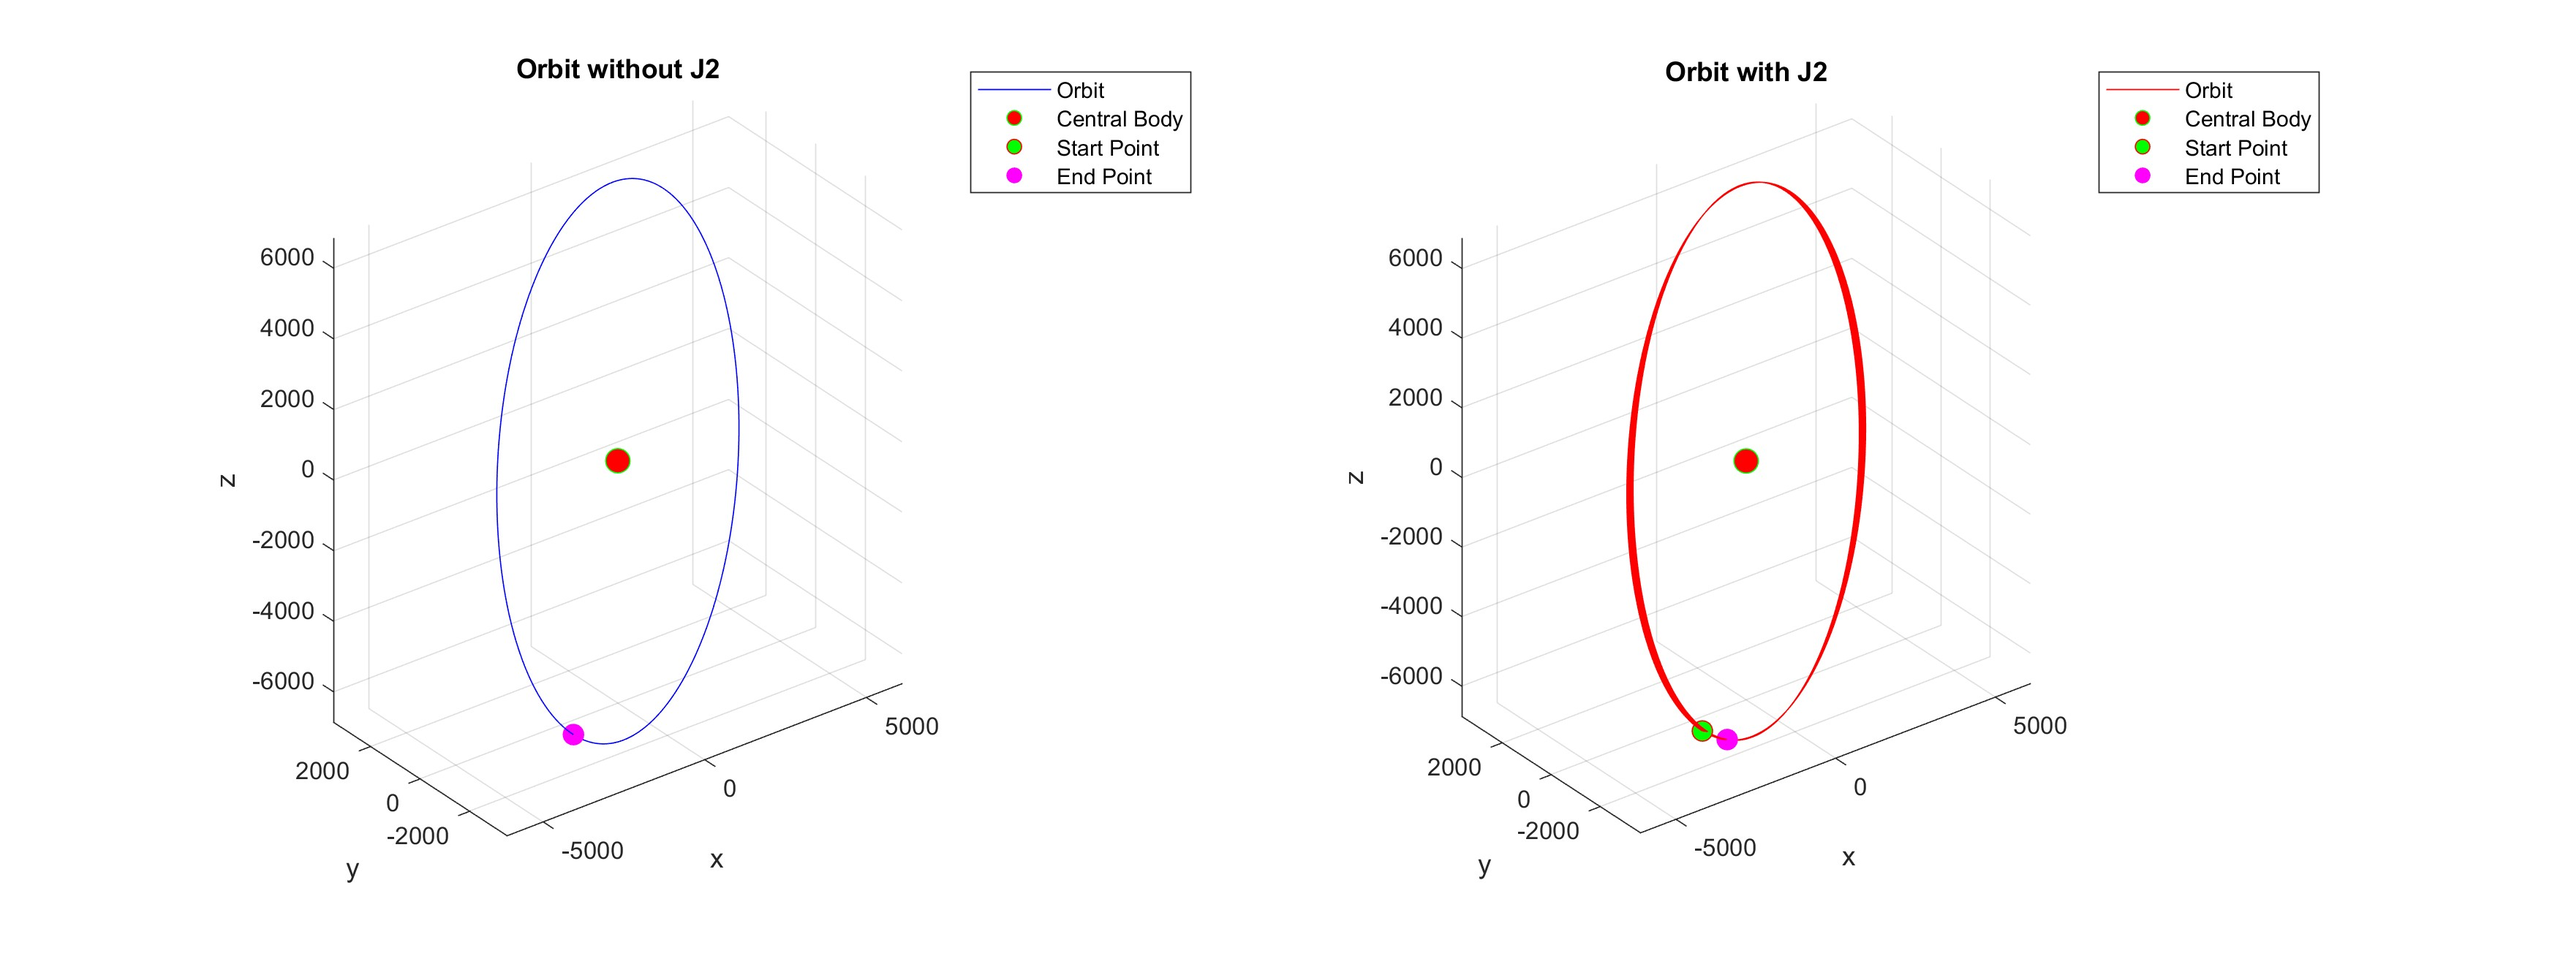
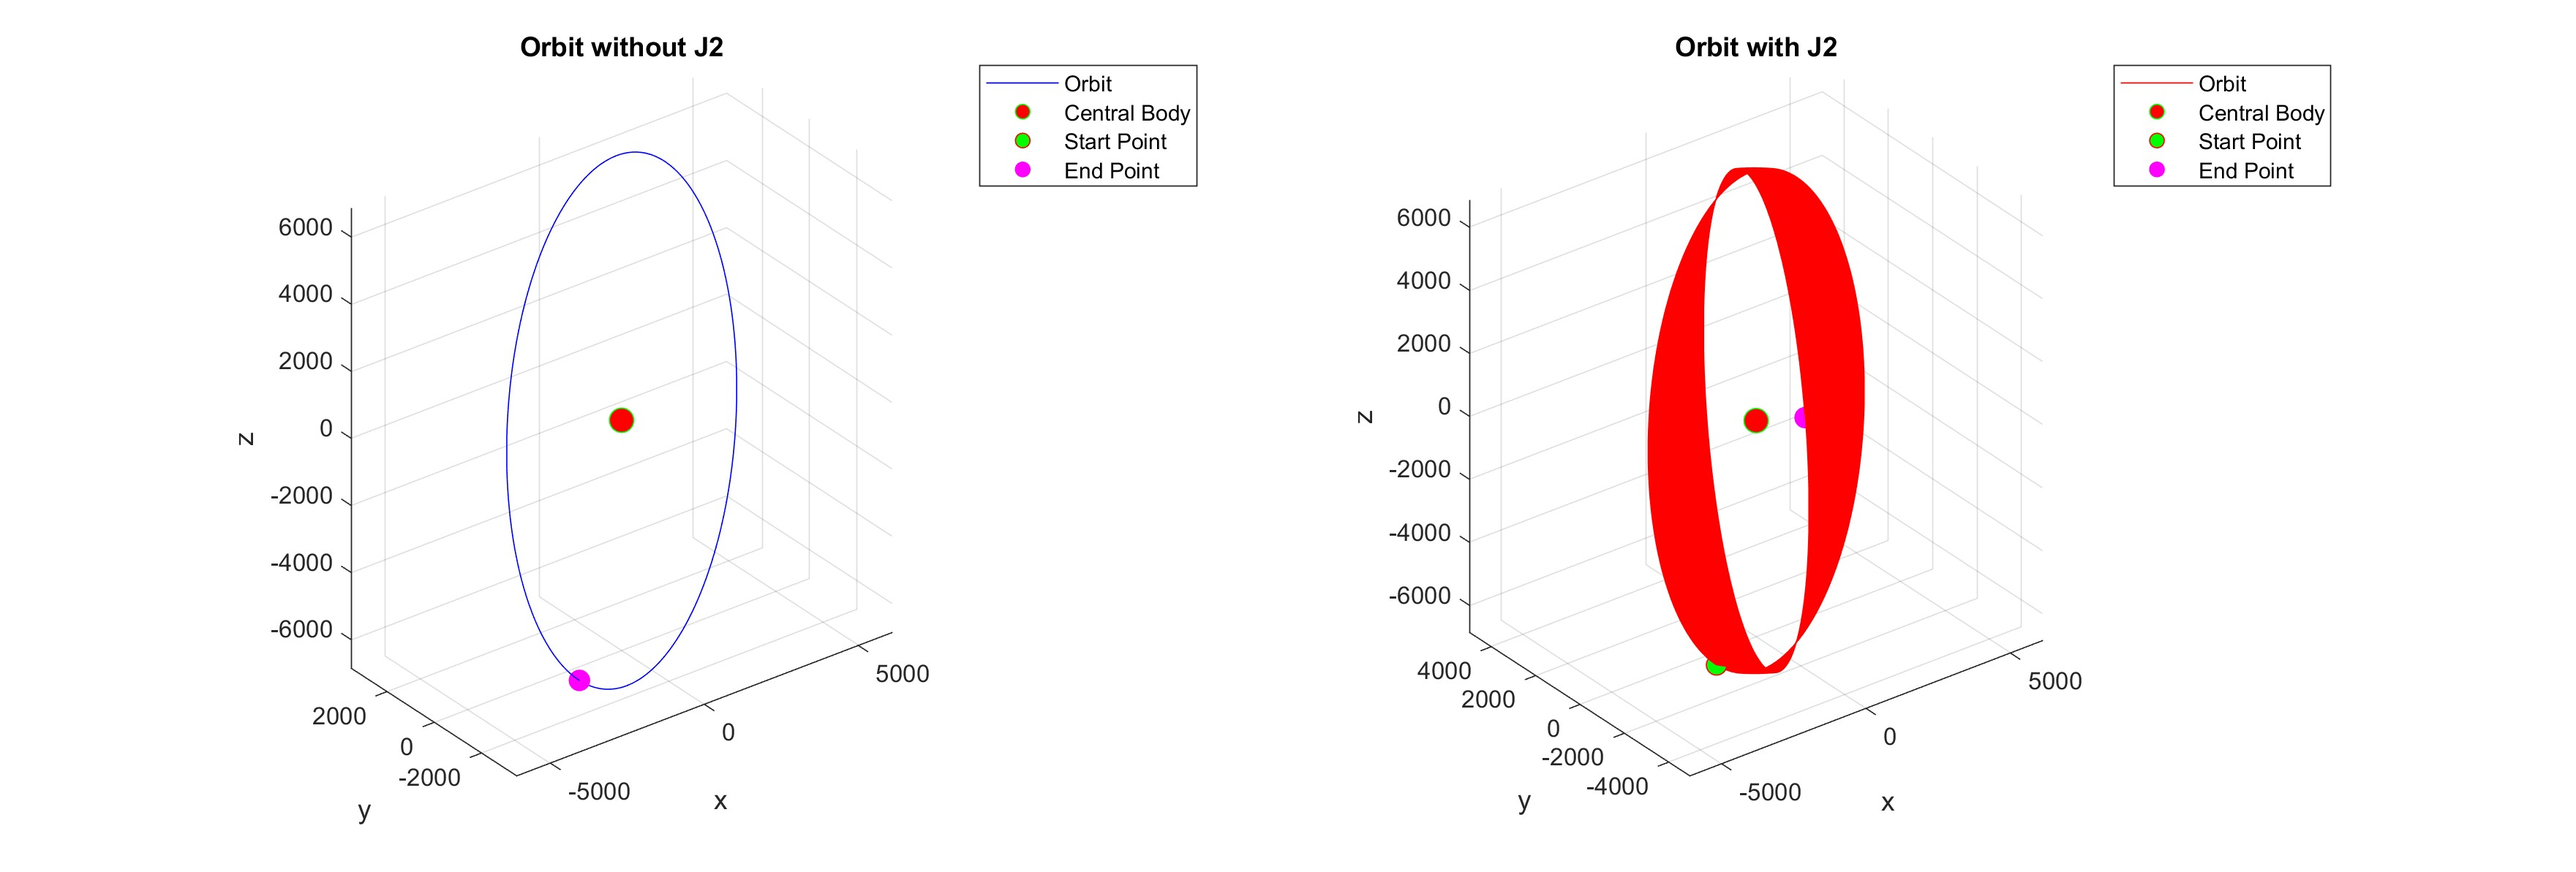
Updates from Overleaf

diff --git a/LaTeX/PS1/ps1.tex b/LaTeX/PS1/ps1.tex
@@ -266,7 +266,7 @@ With these acceleration terms, we can propagate the state through an integer num
     \Delta t = \frac{t_{orbit}}{500} \label{eq:timestep}% Time step (s)
 \end{align}
 
-Figure \ref{fig:3d_plots_with_j2} shows the 3D plot of the orbit in an inertial frame, and compares the orbit with and without J2 perturbations.
+Figure \ref{fig:3d_plots_with_j2} shows the 3D plot of the orbit in an inertial frame, and compares the orbit with and without J2 perturbations, but propagated for 200 orbits to illustrate the change in the argument of periapsis. 
 
 \begin{figure}[H]
     \centering
@@ -361,7 +361,7 @@ Figure \ref{fig:angular_momentum} compares the angular momentum vector over 25 o
 Figure \ref{fig:eccentricity_vector} compares the eccentricity vector over 25 orbits with and without J2. As expected, without J2, the eccentricity vector remains constant. As expected from averaging theory, with J2 there are secular drifts in the x and y components of the eccentricity vector. This corresponds to the secular drift in the argument of periapsis. There are also short-periodic effects on these components from J2.  
 
 
-Figure \ref{fig:specific_energy} compares the specific mechanical energy over 25 orbits with and without J2. As expected, without J2, the specific mechanical energy remains constant. With J2, the average specific mechanical energy also remains constant, which is expected since gravity is a conservative force and thus will not affect the specific mechanical energy. The periodic behavior with J2 may be due to computational error. 
+Figure \ref{fig:specific_energy} compares the specific mechanical energy over 25 orbits with and without J2. As expected, without J2, the specific mechanical energy remains constant. With J2, the average specific mechanical energy also remains constant, which is expected since gravity is a conservative force and thus will not affect the specific mechanical energy. The periodic behavior with J2 is due to the oscillating behavior in the semi-major axis. 
 
 \begin{figure}[H]
     \centering
@@ -389,5 +389,5 @@ Figure \ref{fig:osc_mean_oe} superimposes the resulting mean and osculating orbi
     \label{fig:osc_mean_oe}
 \end{figure}
 
-\subsubsection{Issues with Comparison}
-Issues could arise from the comparison of osculating and mean orbital elements due to the initialization procedure. Specifically, we interpreted our initial orbital elements as osculating at first and then as mean states later on. To ensure that the comparisons remain consistent, it would be most appropriate to convert our initial orbital elements from mean to osculating at first. Furthermore, to ensure that both methods align, the final results from osculating could be converted to mean elements to numerically determine if there are any discrepancies, rather than by visual inspection.
+\subsubsection{Issues with Comparison}\label{sec:comp_issues}
+Issues could arise from the comparison of osculating and mean orbital elements due to the initialization procedure. Specifically, we interpreted our initial orbital elements as osculating at first and then as mean states later on. To ensure that the comparisons remain consistent, it would be most appropriate to convert our initial orbital elements from mean to osculating at first using Brower's Theory. Furthermore, to ensure that both methods align, the final results from osculating could be converted to mean elements to numerically determine if there are any discrepancies, rather than by visual inspection.

diff --git a/LaTeX/PS2/ps2.tex b/LaTeX/PS2/ps2.tex
@@ -211,7 +211,7 @@ To apply the impulsive maneuver to re-establish bounded periodic motion, we firs
 \delta a_{\text{SV3, init}}  &= -1000 \text{ m}
 \end{align*}
 
-Both orbits were propagated for approximately 12 orbits. Then burn was performed at the periapsis of the 12th orbit for fuel-optimality. As seen in both Figure \ref{fig:SV2_rel_pos_vel_eom_maneuver} and \ref{fig:SV3_rel_pos_vel_eom_maneuver}, the drift in radial ($x$) and tangential ($y$) positions was stopped by the maneuver. Instead of oscillations with secular drift, there are now purely oscillations post-maneuver. The secular drift arises from differences in the mean motions of the deputy and chief due to the difference in semi-major axis of the two. The drift cancellation arises from the equilibrium condition of semi-major axis matching. The amplitude of oscillations is related to the phasing of the deputies with respect to the chief, which is a function of timing and relative positioning during the maneuver. 
+Both orbits were propagated for approximately 12 orbits. Then burn was performed at the periapsis of the 12th orbit for fuel-optimality. As seen in both Figure \ref{fig:SV2_rel_pos_vel_eom_maneuver} and \ref{fig:SV3_rel_pos_vel_eom_maneuver}, the drift in radial ($x$) and tangential ($y$) positions was stopped by the maneuver. Instead of oscillations with secular drift, there are now purely oscillations post-maneuver. The secular drift arises from differences in the mean motions of the deputy and chief due to the difference in semi-major axis of the two. The drift cancellation arises from the equilibrium condition of semi-major axis matching. The amplitude of oscillations is related to the phasing of the deputies with respect to the chief, which is a function of timing and relative positioning during the maneuver. Note that while the changes in relative position appear to be instantaneous, they occur over a short period of time. The magnitude of these changes arises from the arbitrary initial conditions set and the amount of drift before the maneuver is applied. 
 
 \begin{figure}[H]
     \centering

diff --git a/LaTeX/AA279D_main.tex b/LaTeX/AA279D_main.tex
@@ -74,7 +74,10 @@
             & \tabitem Added details on integration method \\
             & \tabitem Revised equations \ref{eq:eci2rtn} and \ref{eq:v_rtn} to specify the SV number, and change wording to highlight that we are looking at the chief's RTN frame \\
             & \tabitem Clarified wording about RTN in section \ref{sec:analytical_and_eci2rtn}. \\
-            & \tabitem Fixed x-axis on Figures \ref{fig:rtn_compare_large_timestep} and \ref{fig:rtn_compare_small_timestep}
+            & \tabitem Fixed x-axis on Figures \ref{fig:rtn_compare_large_timestep} and \ref{fig:rtn_compare_small_timestep}. \\
+            & \tabitem Added reference to Brower's Theory in section \ref{sec:comp_issues}. \\
+            & \tabitem Propagated J2 orbit for more orbits to illustrate the argument of periapsis change in section \ref{sec:fode_simulation}. \\
+            & \tabitem Updated reasoning behind periodic behavior in specific mechanical energy in section \ref{sec:oe_compares}.
         %     & \tabitem Example revision statement 2  \\
         % \hline
         % PS3 & \tabitem Added problem set 3 material  \\
